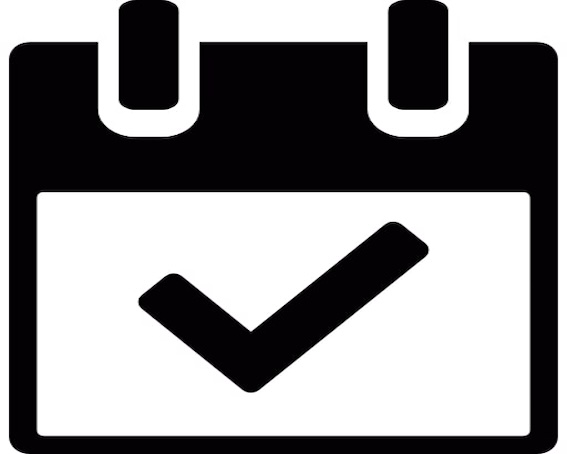
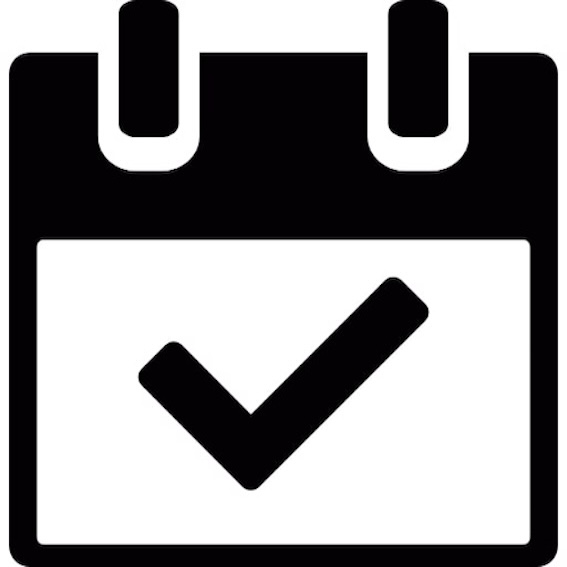
#6-onboarding

diff --git a/lib/features/onboarding/domain/ui/onboarding_page.dart b/lib/features/onboarding/domain/ui/onboarding_page.dart
@@ -1,42 +1,9 @@
 import 'package:flutter/material.dart';
+import 'package:go_router/go_router.dart';
+import 'package:shared_preferences/shared_preferences.dart';
 
-class SplashScreen extends StatefulWidget {
-  const SplashScreen({super.key});
-
-  @override
-  State<SplashScreen> createState() => _SplashScreenState();
-}
-
-class _SplashScreenState extends State<SplashScreen> {
-  @override
-  void initState() {
-    super.initState();
-    _checkOnboardingStatus();
-  }
-
-  void _checkOnboardingStatus() async {
-    final prefs = await SharedPreferences.getInstance();
-    final doneOnboarding = prefs.getBool('onboarding_status') ?? false;
-
-    if (doneOnboarding) {
-      Navigator.of(context).pushReplacement(
-        MaterialPageRoute(builder: (context) => const OnboardingScreen4()),
-      );
-    } else {
-      Navigator.of(context).pushReplacement(
-        MaterialPageRoute(builder: (context) => const OnboardingScreen1()),
-      );
-    }
-  }
-
-  @override
-  Widget build(BuildContext context) {
-    return const Scaffold();
-  }
-}
-
-class OnboardingScreen1 extends StatelessWidget {
-  const OnboardingScreen1({super.key});
+class OnboardingPage extends StatelessWidget {
+  const OnboardingPage({super.key});
 
   @override
   Widget build(BuildContext context) {
@@ -90,11 +57,7 @@ class OnboardingScreen1 extends StatelessWidget {
                 height: 50,
                 child: ElevatedButton(
                   onPressed: () {
-                    Navigator.of(context).pushReplacement(
-                      MaterialPageRoute(
-                        builder: (context) => const OnboardingScreen2(),
-                      ),
-                    );
+                    context.go('/onboarding2');
                   },
                   style: ElevatedButton.styleFrom(
                     backgroundColor: Colors.blue,
@@ -117,8 +80,8 @@ class OnboardingScreen1 extends StatelessWidget {
   }
 }
 
-class OnboardingScreen2 extends StatelessWidget {
-  const OnboardingScreen2({super.key});
+class OnboardingPage2 extends StatelessWidget {
+  const OnboardingPage2({super.key});
 
   @override
   Widget build(BuildContext context) {
@@ -169,11 +132,7 @@ class OnboardingScreen2 extends StatelessWidget {
                 height: 50,
                 child: ElevatedButton(
                   onPressed: () {
-                    Navigator.of(context).pushReplacement(
-                      MaterialPageRoute(
-                        builder: (context) => const OnboardingScreen3(),
-                      ),
-                    );
+                    context.go('/onboarding3');
                   },
                   style: ElevatedButton.styleFrom(
                     backgroundColor: Colors.blue,
@@ -196,13 +155,8 @@ class OnboardingScreen2 extends StatelessWidget {
   }
 }
 
-class OnboardingScreen3 extends StatelessWidget {
-  const OnboardingScreen3({super.key});
-
-  Future<void> _saveOnboardingStatus() async {
-    final prefs = await SharedPreferences.getInstance();
-    await prefs.setBool('onboarding_status', true);
-  }
+class OnboardingPage3 extends StatelessWidget {
+  const OnboardingPage3({super.key});
 
   @override
   Widget build(BuildContext context) {
@@ -238,7 +192,7 @@ class OnboardingScreen3 extends StatelessWidget {
                     ),
                     const SizedBox(height: 16),
                     Text(
-                      '3번째 온보딩 화면입니다.\n다음을 누르세요',
+                      '3번째 온보딩 화면입니다.\n다음을 누르세요.',
                       textAlign: TextAlign.center,
                       style: TextStyle(fontSize: 16, color: Colors.grey),
                     ),
@@ -253,13 +207,7 @@ class OnboardingScreen3 extends StatelessWidget {
                 height: 50,
                 child: ElevatedButton(
                   onPressed: () {
-                    _saveOnboardingStatus();
-
-                    Navigator.of(context).pushReplacement(
-                      MaterialPageRoute(
-                        builder: (context) => const OnboardingScreen4(),
-                      ),
-                    );
+                    context.go('/onboarding4');
                   },
                   style: ElevatedButton.styleFrom(
                     backgroundColor: Colors.blue,
@@ -282,8 +230,13 @@ class OnboardingScreen3 extends StatelessWidget {
   }
 }
 
-class OnboardingScreen4 extends StatelessWidget {
-  const OnboardingScreen4({super.key});
+class OnboardingPage4 extends StatelessWidget {
+  const OnboardingPage4({super.key});
+
+  Future<void> _saveOnboardingStatus() async {
+    final prefs = await SharedPreferences.getInstance();
+    await prefs.setBool('onboarding_status', true);
+  }
 
   @override
   Widget build(BuildContext context) {
@@ -310,7 +263,7 @@ class OnboardingScreen4 extends StatelessWidget {
                   mainAxisAlignment: MainAxisAlignment.center,
                   children: [
                     const Text(
-                      '시작해볼까요?',
+                      '시작해볼까요',
                       textAlign: TextAlign.center,
                       style: TextStyle(
                         fontSize: 28,
@@ -319,7 +272,7 @@ class OnboardingScreen4 extends StatelessWidget {
                     ),
                     const SizedBox(height: 16),
                     Text(
-                      '4번 온보딩 화면입니다.\n로그인하거나 회원가입하세요.',
+                      '4번째 온보딩 화면입니다.\n시작하기를 누르세요',
                       textAlign: TextAlign.center,
                       style: TextStyle(fontSize: 16, color: Colors.grey),
                     ),
@@ -329,56 +282,27 @@ class OnboardingScreen4 extends StatelessWidget {
             ),
             Padding(
               padding: const EdgeInsets.all(24.0),
-              child: Column(
-                children: [
-                  SizedBox(
-                    width: double.infinity,
-                    height: 50,
-                    child: ElevatedButton(
-                      onPressed: () {
-                        //loginbutton
-                      },
-                      style: ElevatedButton.styleFrom(
-                        backgroundColor: Colors.grey,
-                        foregroundColor: Colors.white,
-                        shape: RoundedRectangleBorder(
-                          borderRadius: BorderRadius.circular(8),
-                        ),
-                      ),
-                      child: const Text(
-                        '로그인',
-                        style: TextStyle(
-                          fontSize: 16,
-                          fontWeight: FontWeight.bold,
-                        ),
-                      ),
+              child: SizedBox(
+                width: double.infinity,
+                height: 50,
+                child: ElevatedButton(
+                  onPressed: () {
+                    _saveOnboardingStatus();
+
+                    context.go('/login');
+                  },
+                  style: ElevatedButton.styleFrom(
+                    backgroundColor: Colors.blue,
+                    foregroundColor: Colors.white,
+                    shape: RoundedRectangleBorder(
+                      borderRadius: BorderRadius.circular(8),
                     ),
                   ),
-                  const SizedBox(height: 12),
-                  SizedBox(
-                    width: double.infinity,
-                    height: 50,
-                    child: ElevatedButton(
-                      onPressed: () {
-                        //registerbutton
-                      },
-                      style: ElevatedButton.styleFrom(
-                        backgroundColor: Colors.grey,
-                        foregroundColor: Colors.white,
-                        shape: RoundedRectangleBorder(
-                          borderRadius: BorderRadius.circular(8),
-                        ),
-                      ),
-                      child: const Text(
-                        '회원가입',
-                        style: TextStyle(
-                          fontSize: 16,
-                          fontWeight: FontWeight.bold,
-                        ),
-                      ),
-                    ),
+                  child: const Text(
+                    '시작하기',
+                    style: TextStyle(fontSize: 16, fontWeight: FontWeight.bold),
                   ),
-                ],
+                ),
               ),
             ),
           ],

diff --git a/lib/core/router/app_router.dart b/lib/core/router/app_router.dart
@@ -3,7 +3,11 @@ import 'package:go_router/go_router.dart';
 import 'package:provider/provider.dart';
 import 'home_shell.dart';
 
+import 'package:shared_preferences/shared_preferences.dart';
+
 // ui
+import '../../features/onboarding/domain//ui/onboarding_page.dart';
+
 import '../../features/auth/domain/ui/social_login_page.dart';
 import '../../features/home/domain/ui/home_page.dart';
 import '../../features/pet/domain/ui/pet_profile_page.dart';
@@ -15,9 +19,26 @@ GoRouter createRouter(BuildContext context) {
   final authViewModel = context.read<AuthViewModel>();
 
   return GoRouter(
-    initialLocation: '/login',
+    //initialLocation: '/login',
     refreshListenable: authViewModel,
     routes: [
+      GoRoute(
+        path: '/onboarding',
+        builder: (context, state) => const OnboardingPage(),
+      ),
+      GoRoute(
+        path: '/onboarding2',
+        builder: (context, state) => const OnboardingPage2(),
+      ),
+      GoRoute(
+        path: '/onboarding3',
+        builder: (context, state) => const OnboardingPage3(),
+      ),
+      GoRoute(
+        path: '/onboarding4',
+        builder: (context, state) => const OnboardingPage4(),
+      ),
+
       GoRoute(
         path: '/login',
         builder: (context, state) => const SocialLoginPage(),
@@ -30,7 +51,17 @@ GoRouter createRouter(BuildContext context) {
         ],
       ),
     ],
-    redirect: (context, state) {
+    redirect: (context, state) async {
+      final prefs = await SharedPreferences.getInstance();
+      final doneOnboarding = prefs.getBool('onboarding_status') ?? false;
+      final isOnboardingRoute = state.matchedLocation.startsWith('/onboarding');
+      if (isOnboardingRoute) {
+        return null;
+      }
+      if (!doneOnboarding && !isOnboardingRoute) {
+        return '/onboarding';
+      }
+
       final isLoggedIn = authViewModel.userId != null;
       final loggingIn = state.matchedLocation == '/login';
 

diff --git a/lib/main.dart b/lib/main.dart
@@ -1,7 +1,7 @@
 import 'package:flutter/material.dart';
 import 'package:flutter_dotenv/flutter_dotenv.dart';
 import 'package:provider/provider.dart';
-import 'package:shared_preferences/shared_preferences.dart';
+
 import 'package:supabase_flutter/supabase_flutter.dart';
 
 import 'core/router/app_router.dart';
